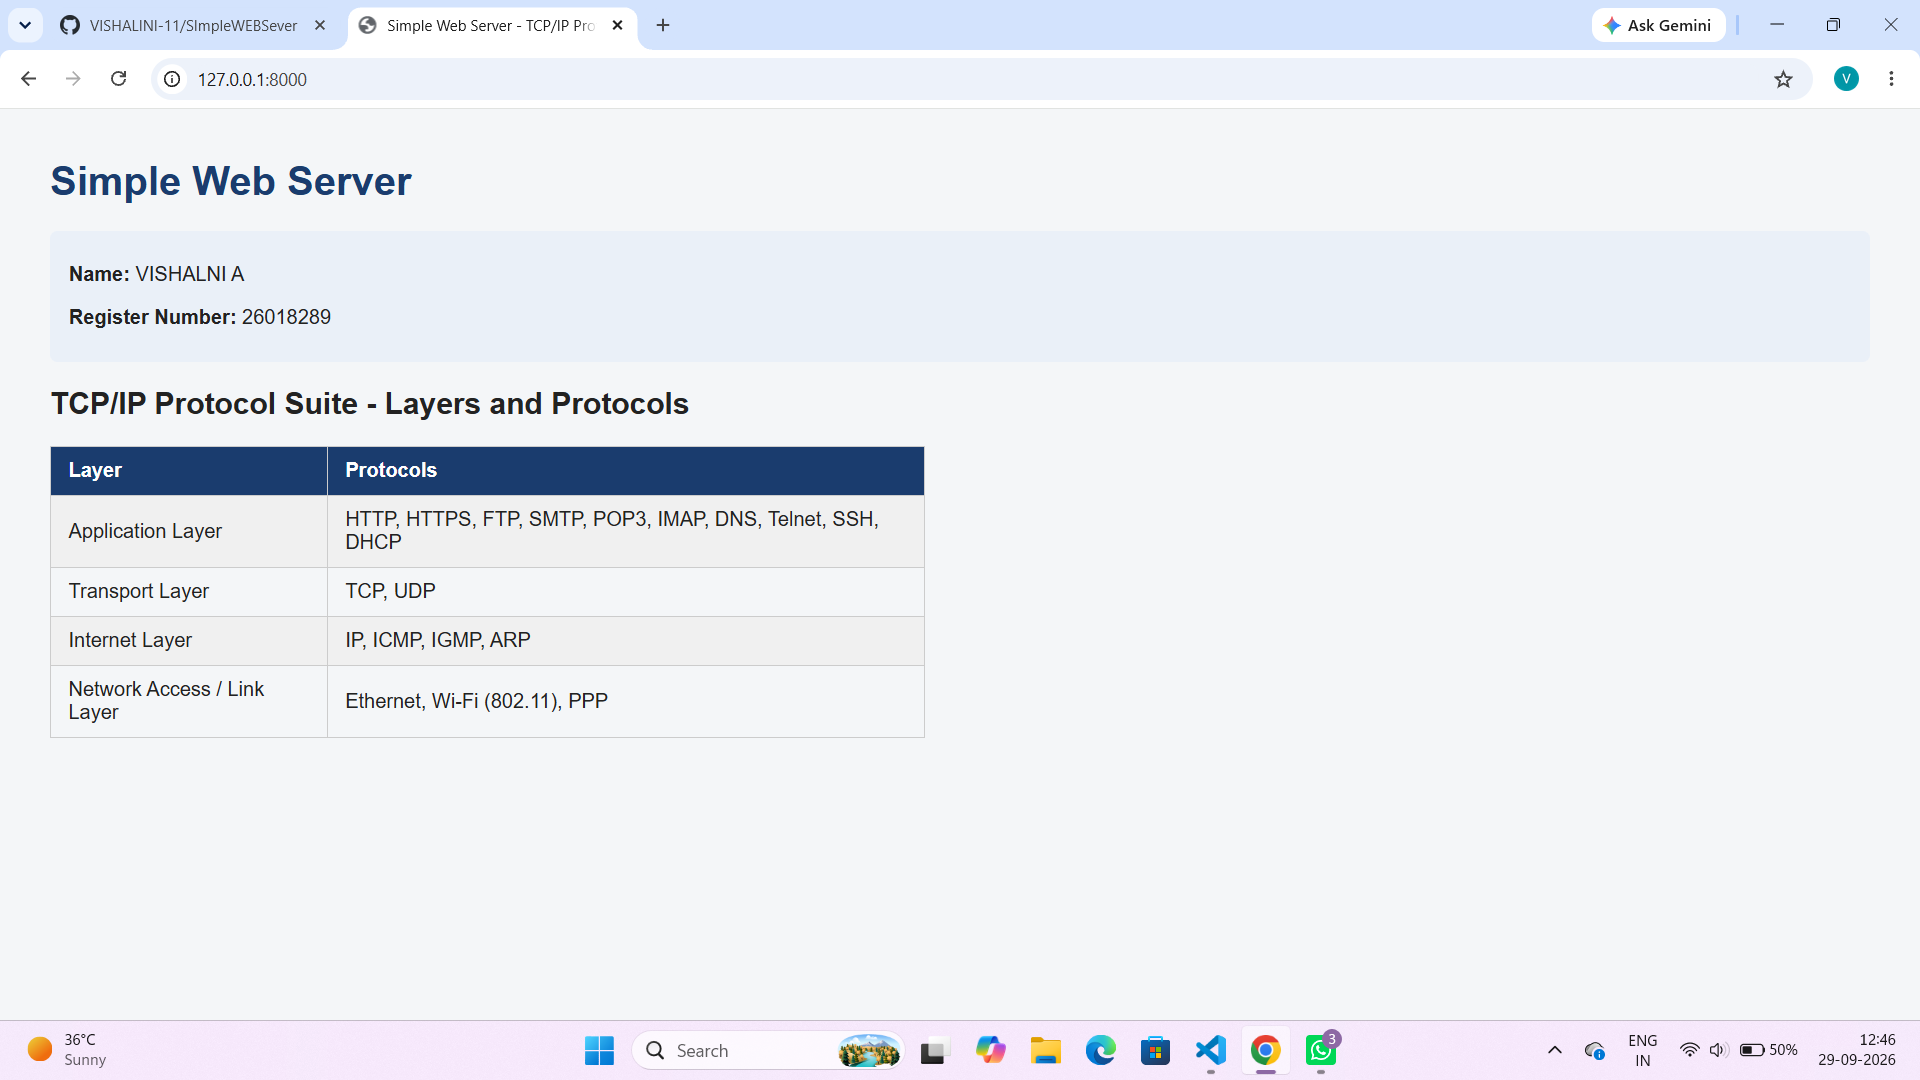
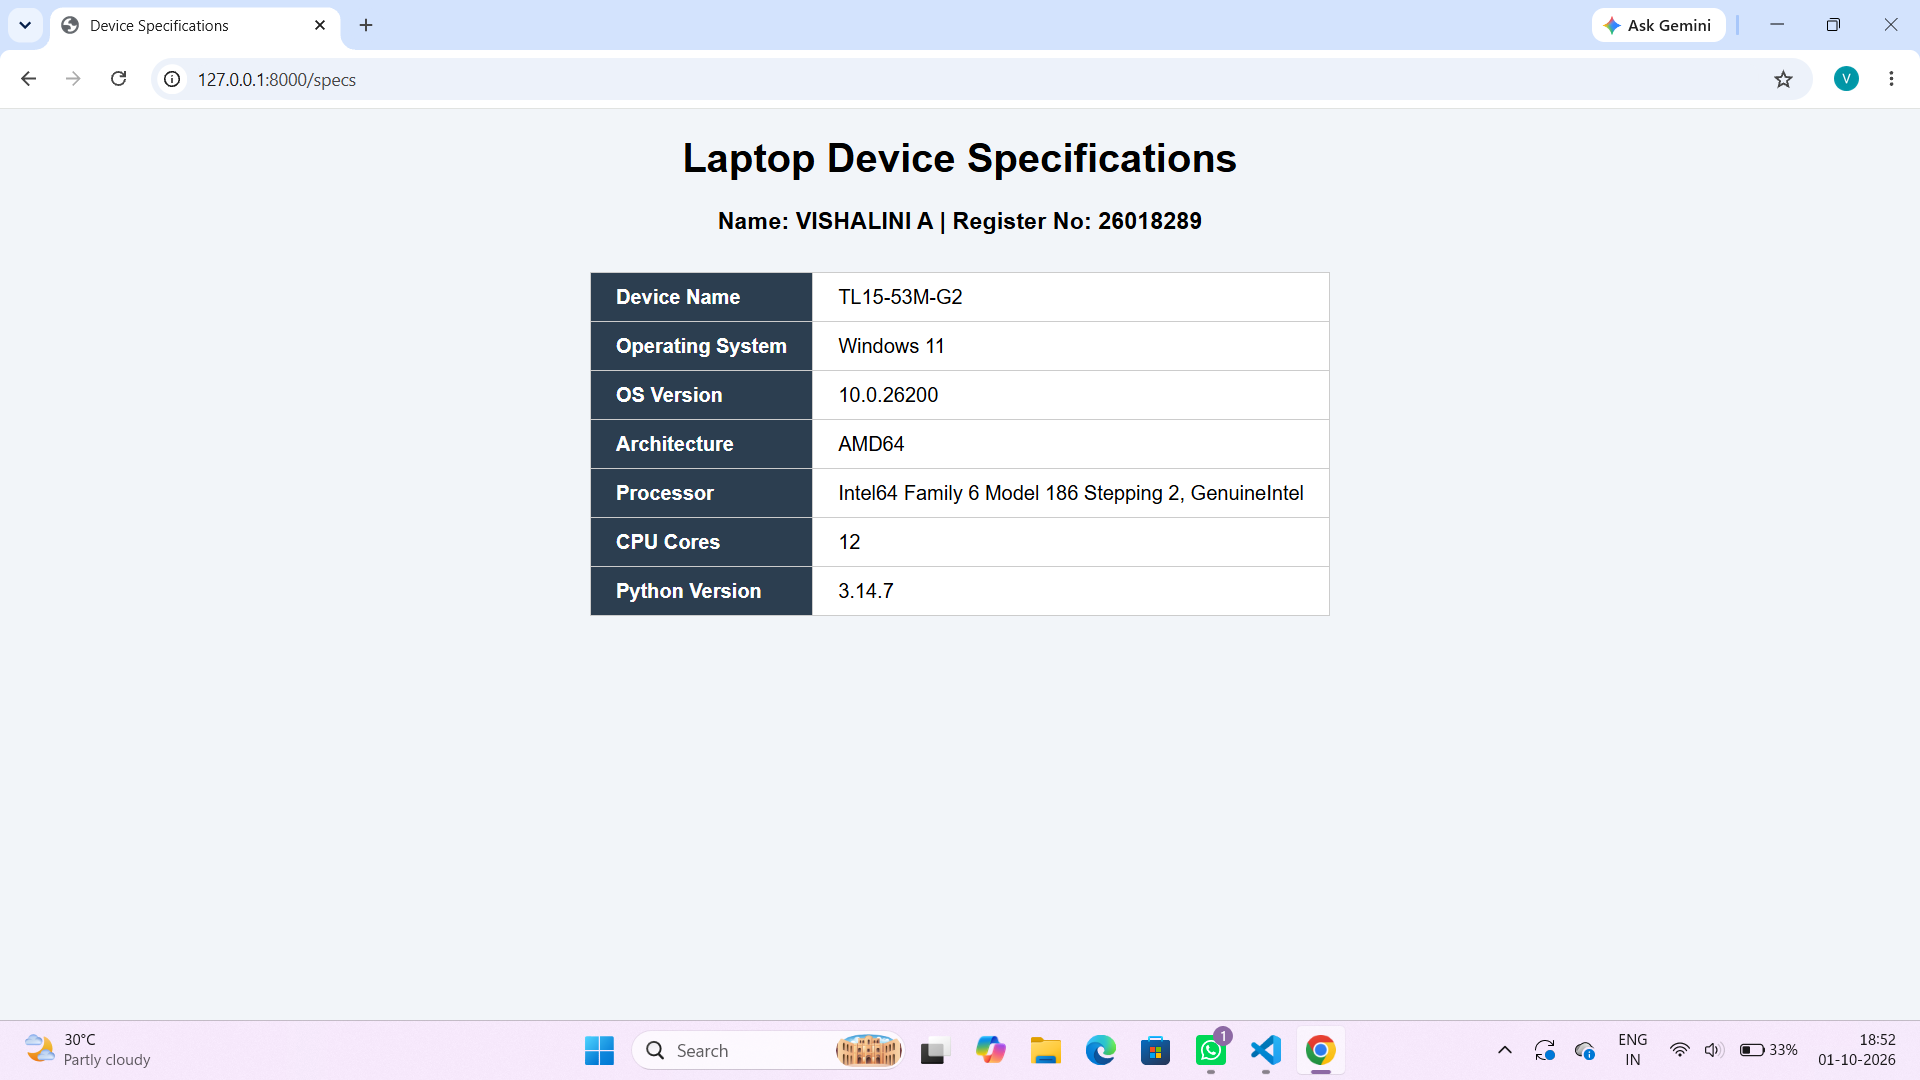
Add simple web server and output

diff --git a/index.html b/index.html
@@ -1,32 +1,18 @@
 <!DOCTYPE html>
-<html lang="en">
+<html>
 <head>
-  <meta charset="UTF-8">
-  <title>Simple Web Server - TCP/IP Protocol Suite</title>
+  <meta charset="utf-8">
+  <title>My Simple Web Server</title>
   <style>
-    body { font-family: Arial, sans-serif; margin: 40px; background: #f4f6f8; color: #222; }
-    h1 { color: #1a3c6e; }
-    .info { background: #eaf0f8; padding: 10px 15px; border-radius: 6px; margin-bottom: 20px; }
-    table { border-collapse: collapse; width: 100%; max-width: 700px; }
-    th, td { border: 1px solid #ccc; padding: 10px 14px; text-align: left; }
-    th { background: #1a3c6e; color: white; }
-    tr:nth-child(even) { background: #f0f0f0; }
+    body { font-family: Arial, sans-serif; text-align: center; background: #f2f5f9; }
+    a { display: inline-block; margin: 10px; padding: 10px 20px; background: #2c3e50; color: #fff; text-decoration: none; border-radius: 6px; }
   </style>
 </head>
 <body>
-  <h1>Simple Web Server</h1>
-  <div class="info">
-    <p><strong>Name:</strong> VISHALNI A</p>
-    <p><strong>Register Number:</strong> 26018289</p>
-  </div>
-
-  <h2>TCP/IP Protocol Suite - Layers and Protocols</h2>
-  <table>
-    <tr><th>Layer</th><th>Protocols</th></tr>
-    <tr><td>Application Layer</td><td>HTTP, HTTPS, FTP, SMTP, POP3, IMAP, DNS, Telnet, SSH, DHCP</td></tr>
-    <tr><td>Transport Layer</td><td>TCP, UDP</td></tr>
-    <tr><td>Internet Layer</td><td>IP, ICMP, IGMP, ARP</td></tr>
-    <tr><td>Network Access / Link Layer</td><td>Ethernet, Wi-Fi (802.11), PPP</td></tr>
-  </table>
+  <h1>Welcome to My Simple Web Server</h1>
+  <h3>Name: VISHALINI A | Register No: 26018289</h3>
+  <p>This page is served from index.html by a Python server.</p>
+  <a href="/specs">Device Specifications</a>
+  <a href="/about.html">About</a>
 </body>
 </html>

diff --git a/about.html b/about.html
@@ -1,0 +1,9 @@
+<!DOCTYPE html>
+<html>
+<head><meta charset="utf-8"><title>About</title></head>
+<body style="font-family: Arial, sans-serif; text-align: center;">
+  <h1>About</h1>
+  <p>A simple web server built with Python's http.server module.</p>
+  <a href="/">Back to Home</a>
+</body>
+</html>

diff --git a/server.py b/server.py
@@ -1,27 +1,66 @@
-"""
-Simple Web Server
-Serves an HTML page listing the TCP/IP Protocol Suite.
-Runs on 127.0.0.1:8000
-"""
-
-from http.server import HTTPServer, SimpleHTTPRequestHandler
+from http.server import HTTPServer, BaseHTTPRequestHandler
+import platform
+import socket
 import os
 
-HOST = "127.0.0.1"
-PORT = 8000
+NAME = "VISHALINI A"
+REG_NO = "26018289"
 
-class Handler(SimpleHTTPRequestHandler):
+def get_specs():
+    return {
+        "Device Name": socket.gethostname(),
+        "Operating System": f"{platform.system()} {platform.release()}",
+        "OS Version": platform.version(),
+        "Architecture": platform.machine(),
+        "Processor": platform.processor() or "Unknown",
+        "CPU Cores": os.cpu_count(),
+        "Python Version": platform.python_version(),
+    }
+
+def build_page():
+    rows = "".join(
+        f"<tr><th>{k}</th><td>{v}</td></tr>" for k, v in get_specs().items()
+    )
+    return f"""<!DOCTYPE html>
+<html>
+<head>
+  <meta charset="utf-8">
+  <title>Device Specifications</title>
+  <style>
+    body {{ font-family: Arial, sans-serif; background: #f2f5f9; text-align: center; }}
+    table {{ margin: 30px auto; border-collapse: collapse; background: #fff; }}
+    th, td {{ border: 1px solid #ccc; padding: 10px 20px; text-align: left; }}
+    th {{ background: #2c3e50; color: #fff; }}
+  </style>
+</head>
+<body>
+  <h1>Laptop Device Specifications</h1>
+  <h3>Name: {NAME} | Register No: {REG_NO}</h3>
+  <table>{rows}</table>
+</body>
+</html>"""
+
+class MyHandler(BaseHTTPRequestHandler):
+    def send_html(self, content, status=200):
+        self.send_response(status)
+        self.send_header("Content-Type", "text/html; charset=utf-8")
+        self.end_headers()
+        self.wfile.write(content.encode("utf-8"))
+
     def do_GET(self):
-        if self.path == "/" or self.path == "":
-            self.path = "/index.html"
-        return super().do_GET()
+        print("Request:", self.path)
+        if self.path == "/specs":
+            self.send_html(build_page())
+            return
+        name = "index.html" if self.path == "/" else self.path.lstrip("/")
+        name = os.path.basename(name)
+        if name.endswith(".html") and os.path.exists(name):
+            with open(name, encoding="utf-8") as f:
+                self.send_html(f.read())
+        else:
+            self.send_html("<h1>404 - Page Not Found</h1>", 404)
 
-if __name__ == "__main__":
-    os.chdir(os.path.dirname(os.path.abspath(__file__)))
-    server = HTTPServer((HOST, PORT), Handler)
-    print(f"Serving on http://{HOST}:{PORT}  (Press Ctrl+C to stop)")
-    try:
-        server.serve_forever()
-    except KeyboardInterrupt:
-        print("\nServer stopped.")
-        server.server_close()
+server_address = ("", 8000)
+httpd = HTTPServer(server_address, MyHandler)
+print("My webserver is running on http://127.0.0.1:8000 ...")
+httpd.serve_forever()

diff --git a/README.md b/README.md
@@ -1,6 +1,6 @@
 # SImpleWEBSever
 # EX01 Developing a Simple Webserver
-## Date:29.09.2026
+## Date:02.10.2026
 
 ## AIM:
 To develop a simple webserver to serve html pages and display the Device Specifications of your Laptop.
@@ -37,39 +37,78 @@ Start the server script and check for errors.
 Open a browser and navigate to http://127.0.0.1:8000 (or the assigned port).
 
 ## PROGRAM:
-"""
-Simple Web Server
-Serves an HTML page listing the TCP/IP Protocol Suite.
-Runs on 127.0.0.1:8000
-"""
-
-from http.server import HTTPServer, SimpleHTTPRequestHandler
+from http.server import HTTPServer, BaseHTTPRequestHandler
+import platform
+import socket
 import os
 
-HOST = "127.0.0.1"
-PORT = 8000
+NAME = "VISHALINI A"
+REG_NO = "26018289"
 
-class Handler(SimpleHTTPRequestHandler):
+def get_specs():
+    return {
+        "Device Name": socket.gethostname(),
+        "Operating System": f"{platform.system()} {platform.release()}",
+        "OS Version": platform.version(),
+        "Architecture": platform.machine(),
+        "Processor": platform.processor() or "Unknown",
+        "CPU Cores": os.cpu_count(),
+        "Python Version": platform.python_version(),
+    }
+
+def build_page():
+    rows = "".join(
+        f"<tr><th>{k}</th><td>{v}</td></tr>" for k, v in get_specs().items()
+    )
+    return f"""<!DOCTYPE html>
+<html>
+<head>
+  <meta charset="utf-8">
+  <title>Device Specifications</title>
+  <style>
+    body {{ font-family: Arial, sans-serif; background: #f2f5f9; text-align: center; }}
+    table {{ margin: 30px auto; border-collapse: collapse; background: #fff; }}
+    th, td {{ border: 1px solid #ccc; padding: 10px 20px; text-align: left; }}
+    th {{ background: #2c3e50; color: #fff; }}
+  </style>
+</head>
+<body>
+  <h1>Laptop Device Specifications</h1>
+  <h3>Name: {NAME} | Register No: {REG_NO}</h3>
+  <table>{rows}</table>
+</body>
+</html>"""
+
+class MyHandler(BaseHTTPRequestHandler):
+    def send_html(self, content, status=200):
+        self.send_response(status)
+        self.send_header("Content-Type", "text/html; charset=utf-8")
+        self.end_headers()
+        self.wfile.write(content.encode("utf-8"))
+
     def do_GET(self):
-        if self.path == "/" or self.path == "":
-            self.path = "/index.html"
-        return super().do_GET()
+        print("Request:", self.path)
+        if self.path == "/specs":
+            self.send_html(build_page())
+            return
+        name = "index.html" if self.path == "/" else self.path.lstrip("/")
+        name = os.path.basename(name)
+        if name.endswith(".html") and os.path.exists(name):
+            with open(name, encoding="utf-8") as f:
+                self.send_html(f.read())
+        else:
+            self.send_html("<h1>404 - Page Not Found</h1>", 404)
 
-if __name__ == "__main__":
-    os.chdir(os.path.dirname(os.path.abspath(__file__)))
-    server = HTTPServer((HOST, PORT), Handler)
-    print(f"Serving on http://{HOST}:{PORT}  (Press Ctrl+C to stop)")
-    try:
-        server.serve_forever()
-    except KeyboardInterrupt:
-        print("\nServer stopped.")
-        server.server_close()
-
+server_address = ("", 8000)
+httpd = HTTPServer(server_address, MyHandler)
+print("My webserver is running on http://127.0.0.1:8000 ...")
+httpd.serve_forever()
 
 ## OUTPUT:
+![alt text](output1.png)
+
 ![alt text](output.png)
 
-![alt text](outputprogram.png)
-
+![alt text](terminalcode.png)
 ## RESULT:
 The program for implementing simple webserver is executed successfully.
